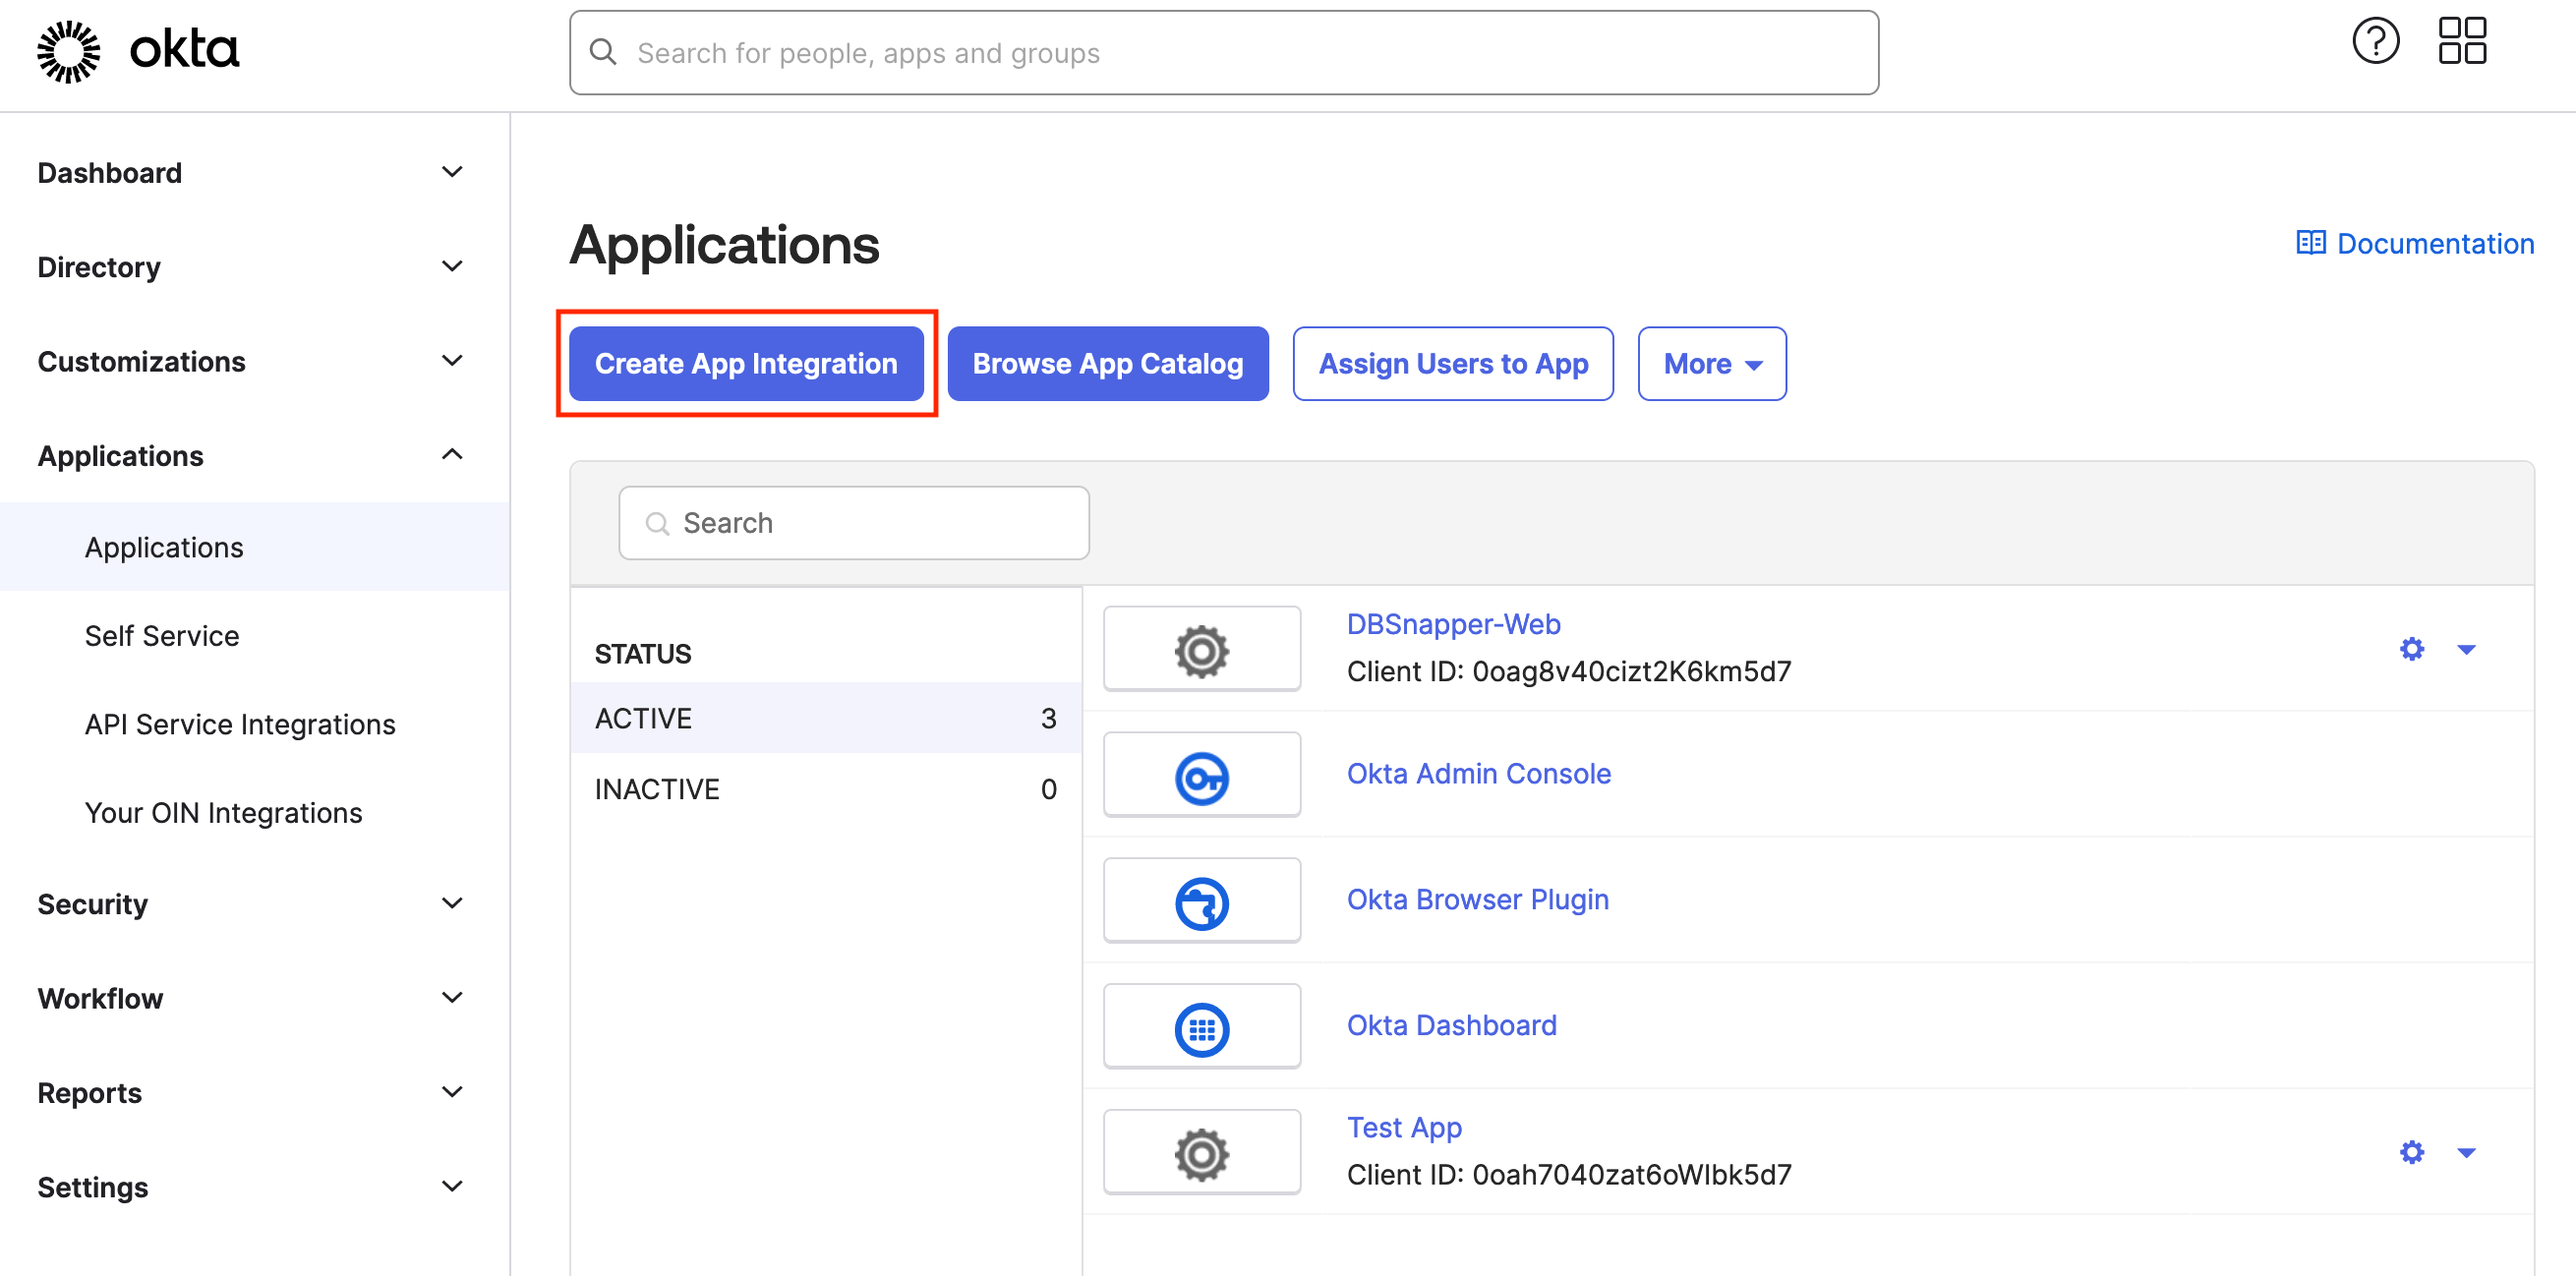
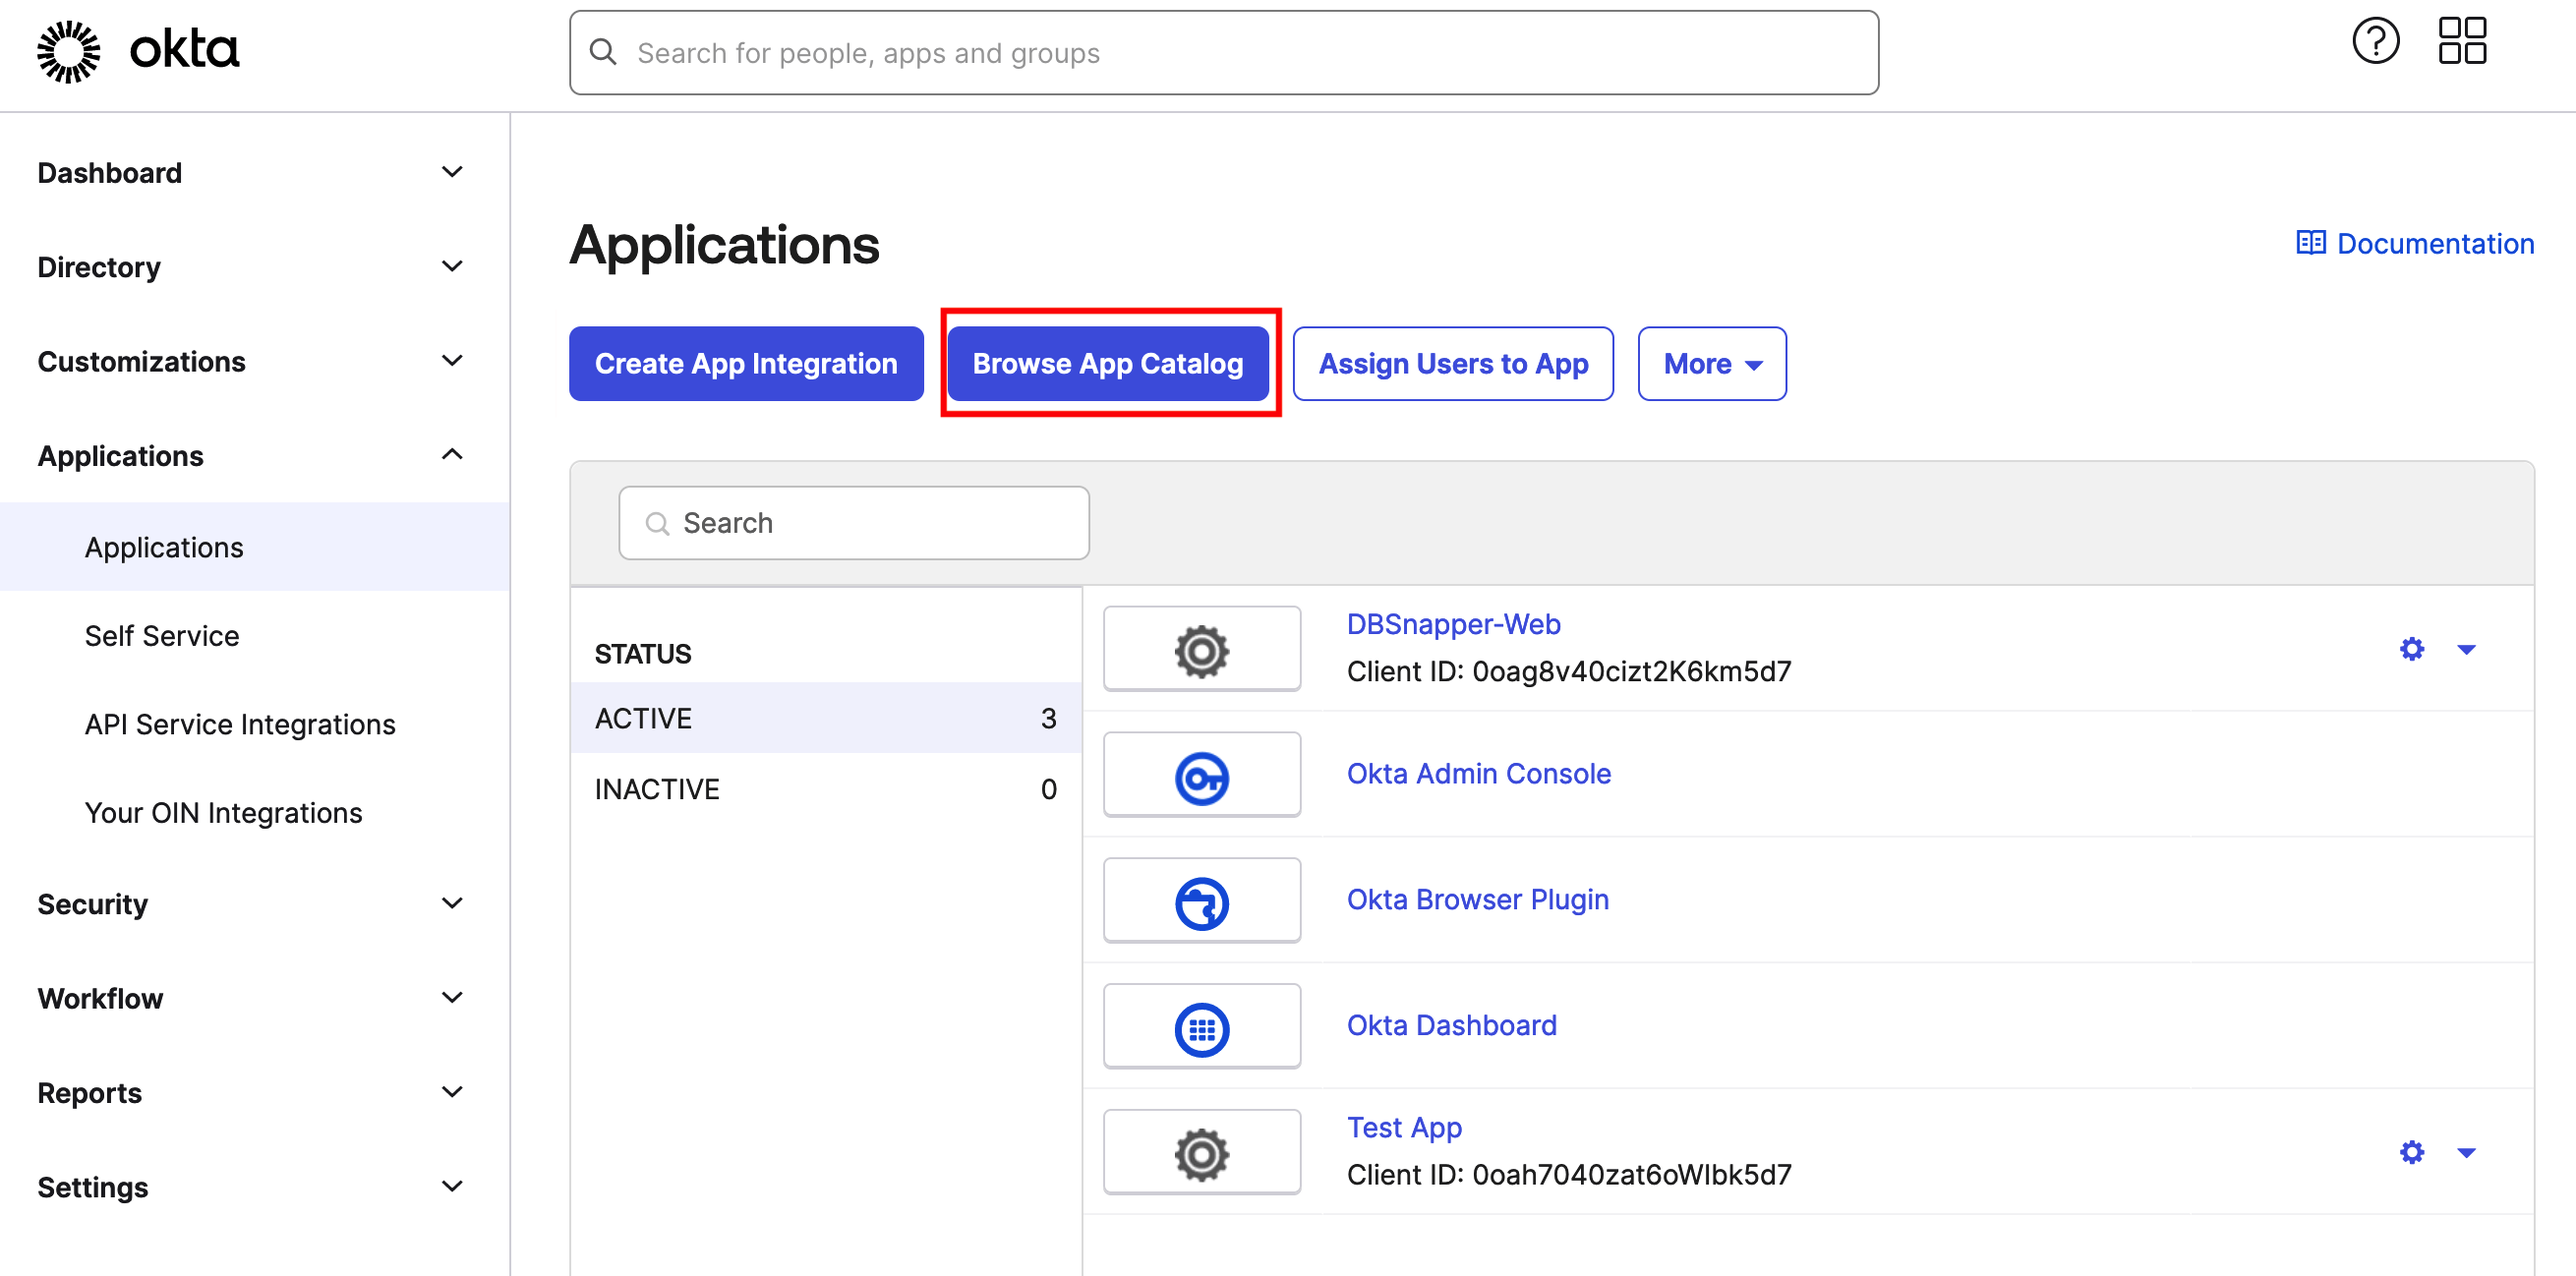
update okta sso docs for OIN

diff --git a/docs/dbsnapper-cloud/sso/sso-okta-oidc.md b/docs/dbsnapper-cloud/sso/sso-okta-oidc.md
@@ -3,11 +3,17 @@ title: DBSnapper Cloud - Single Sign-On (SSO) with Okta OIDC
 description: Configure Single Sign-On for your DBSnapper organization with Okta OIDC
 ---
 
-In this guide, we will use Okta as the SSO provider and with the Open ID Connect (OIDC) protocol as our identity protocol.
+DBSnapper supports Single Sign-On (SSO) with Okta - this guide will walk you through the steps to configure Okta OIDC for your DBSnapper organization using the Okta Integration Network (OIN) catalog.
 
-## Step 1: Create a new Application in Okta
+## Supported Features
 
-Sign into your Okta account and navigate to Admin/Applications. Click on the `Create App Integration` button.
+- SP initiated Auth Flow: Yes
+- Open ID Connect (OIDC): Yes
+- Proof Key for Code Exchange (PKCE): Yes
+
+## Step 1: Add the DBSnapper Application from the OIN Catalog
+
+Sign into your Okta account and navigate to Admin/Applications. Click on the `Browse App Catalog` button.
 
 <p class="img-box">
   <img src="/static/sso/sso-okta-step1-1-create-app-integration.png" alt="Step 1.1 - Okta SSO - Applications" width="90%">
@@ -15,55 +21,20 @@ Sign into your Okta account and navigate to Admin/Applications. Click on the `Cr
   <small>Step 1.1 - Okta SSO - Applications</small>
 </p>
 
-At the next modal, select `OIDC - OpenID Connect` as the Sign-in method, Choose `Web Application` as the Application type, and click `Next`.
+Search for and add the DBSnapper application from the catalog.
 
 <p class="img-box">
-  <img src="/static/sso/sso-okta-step1-2-new-app-integration.png" alt="Step 1.2 - Okta SSO - New App Integration" width="90%">
+  <img src="/static/sso/sso-okta-step1-2-dbsnapper-oin-search.png" alt="Step 1.2 - Okta SSO - Add DBSnapper from Okta Integration Network (OIN)" width="90%">
   <br/>
-  <small>Step 1.2 - Okta SSO - New App Integration</small>
+  <small>Step 1.2 - Okta SSO - Add DBSnapper from Okta Integration Network (OIN)</small>
 </p>
 
-On the next page, **New Web App Integration,** make sure `Authorization Code` and `Refresh Token` are selected.
-
-Provide the Sign-in redirect URIs as: `https://app.dbsnapper.com/auth/okta/callback`
-
-Leave the Sign-out redirect URIs empty.
-
-Click `Save` to save the new application.
-
-<p class="img-box">
-  <img src="/static/sso/sso-okta-step1-3-new-web-app-integration.png" alt="Step 1.3 - Okta SSO - New Web App Integration" width="90%">
-  <br/>
-  <small>Step 1.3 - Okta SSO - New Web App Integration</small>
-</p>
-
-On the next scren, click on the Edit link to the right of the `Client Credentials` heading.
+---
 
 Take note of your application credentials which will be used in the DBSnapper Cloud SSO settings:
 
 - Client ID - a public identifier for the client application
 - Client Secret - Click to reveal the client secret and make note of it.
-
-The rest of the settings should match what is shown in the screenshot below:
-
-**Enable** `Proof Key for Code Exchange (PKCE)`: **Require PKCE as additional verification**
-
-<p class="img-box">
-  <img src="/static/sso/sso-okta-step1-4-edit-application.png" alt="Step 1.4 - Okta SSO - Edit Client Credentials Settings" width="90%">
-  <br/>
-  <small>Step 1.4 - Okta SSO - Edit Client Credentials Settings</small>
-</p>
-
-Click on the `Sign On` tab to edit the Issuer and Group claims settings.
-
-- **Issuer** - Change it from _Dynamic_ to _Okta URL ..._ and take note of this value
-- **Group claims** - Change it to match the screenshot below. `groups Matches regex .*` This will allow DBSnapper to use the groups claim for sharing snapshots with your team.
-
-<p class="img-box">
-  <img src="/static/sso/sso-okta-step1-5-sign-on-settings.png" alt="Step 1.5 - Okta SSO - Edit Sign On Settings" width="90%">
-  <br/>
-  <small>Step 1.5 - Okta SSO - Edit Sign On Settings</small>
-</p>
 
 ## Step 2: Configure DBSnapper for Okta OIDC
 
@@ -72,9 +43,9 @@ Sign into your DBSnapper Cloud account and navigate to the `Settings -> SSO` pag
 Add the settings from the Okta application you created in Step 1:
 
 - **Provider** - Okta - OIDC (the default)
-- **Client ID** - from the `General` tab of the Okta application
-- **Client Secret** - from the `General` tab of the Okta application
-- **Issuer** - from the `Sign On` tab of the Okta application
+- **Client ID** - From the DBSnapper application settings in Okta
+- **Client Secret** - From the DBSnapper application settings in Okta
+- **Issuer** - Your Okta domain URL (e.g. `https://example.okta.com`)
 
 Note that the **Organization Domain** and **Redirect URL** are pre-filled for your organization. Make sure the **Organization Domain** matches the email domain of your users' email addresses.
 
